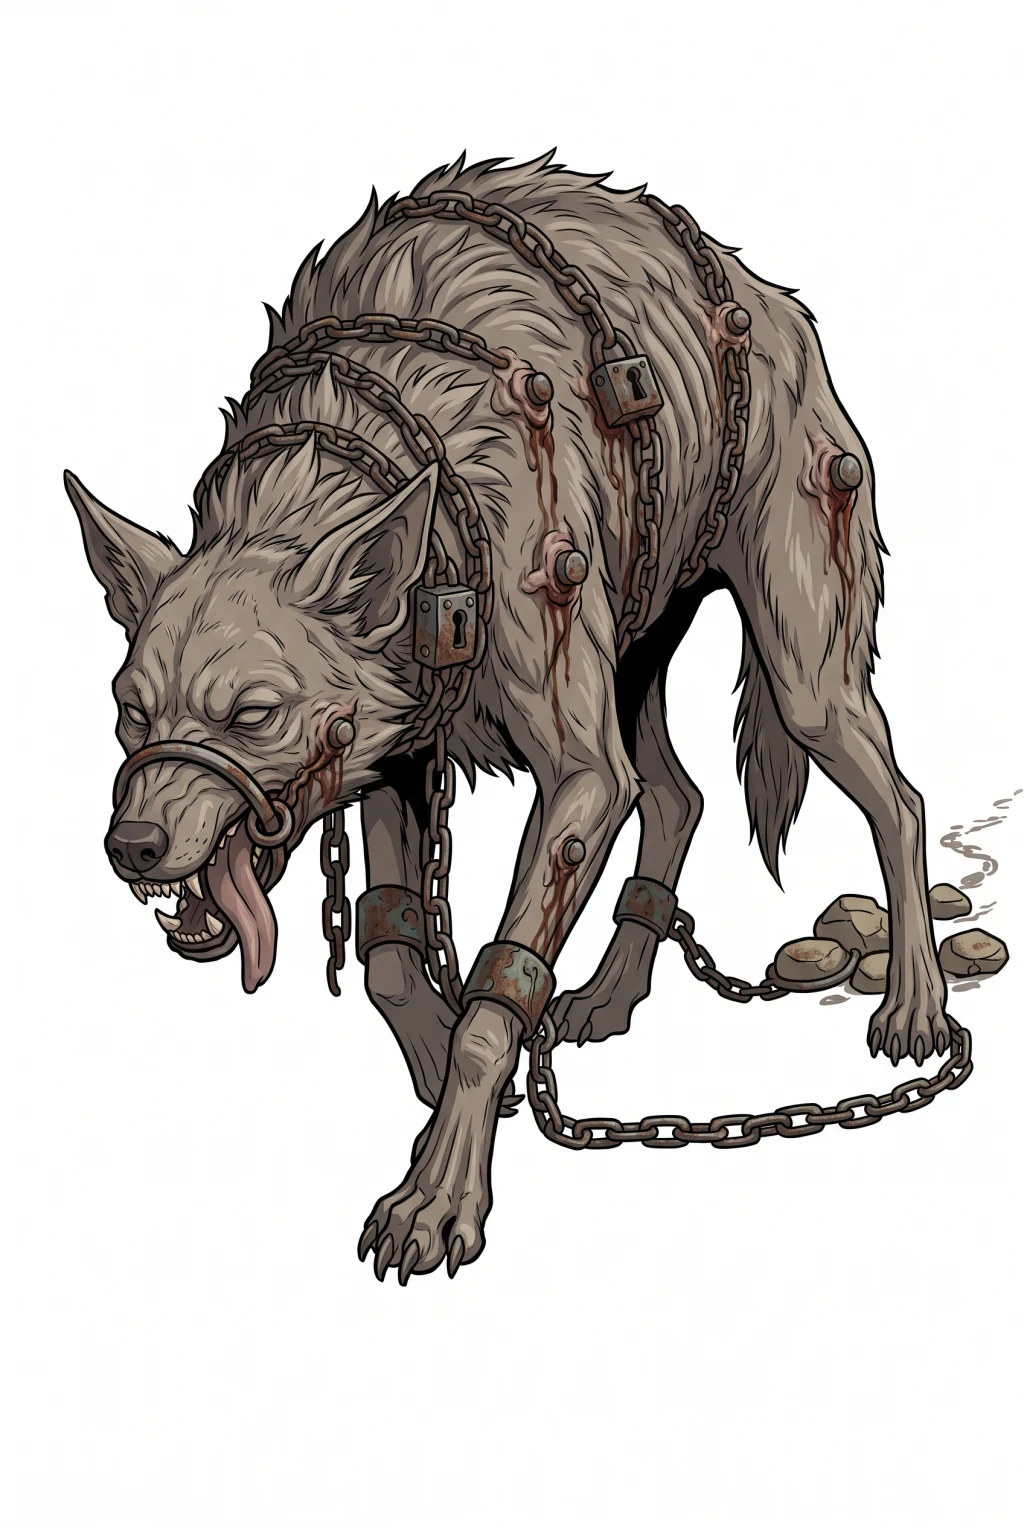
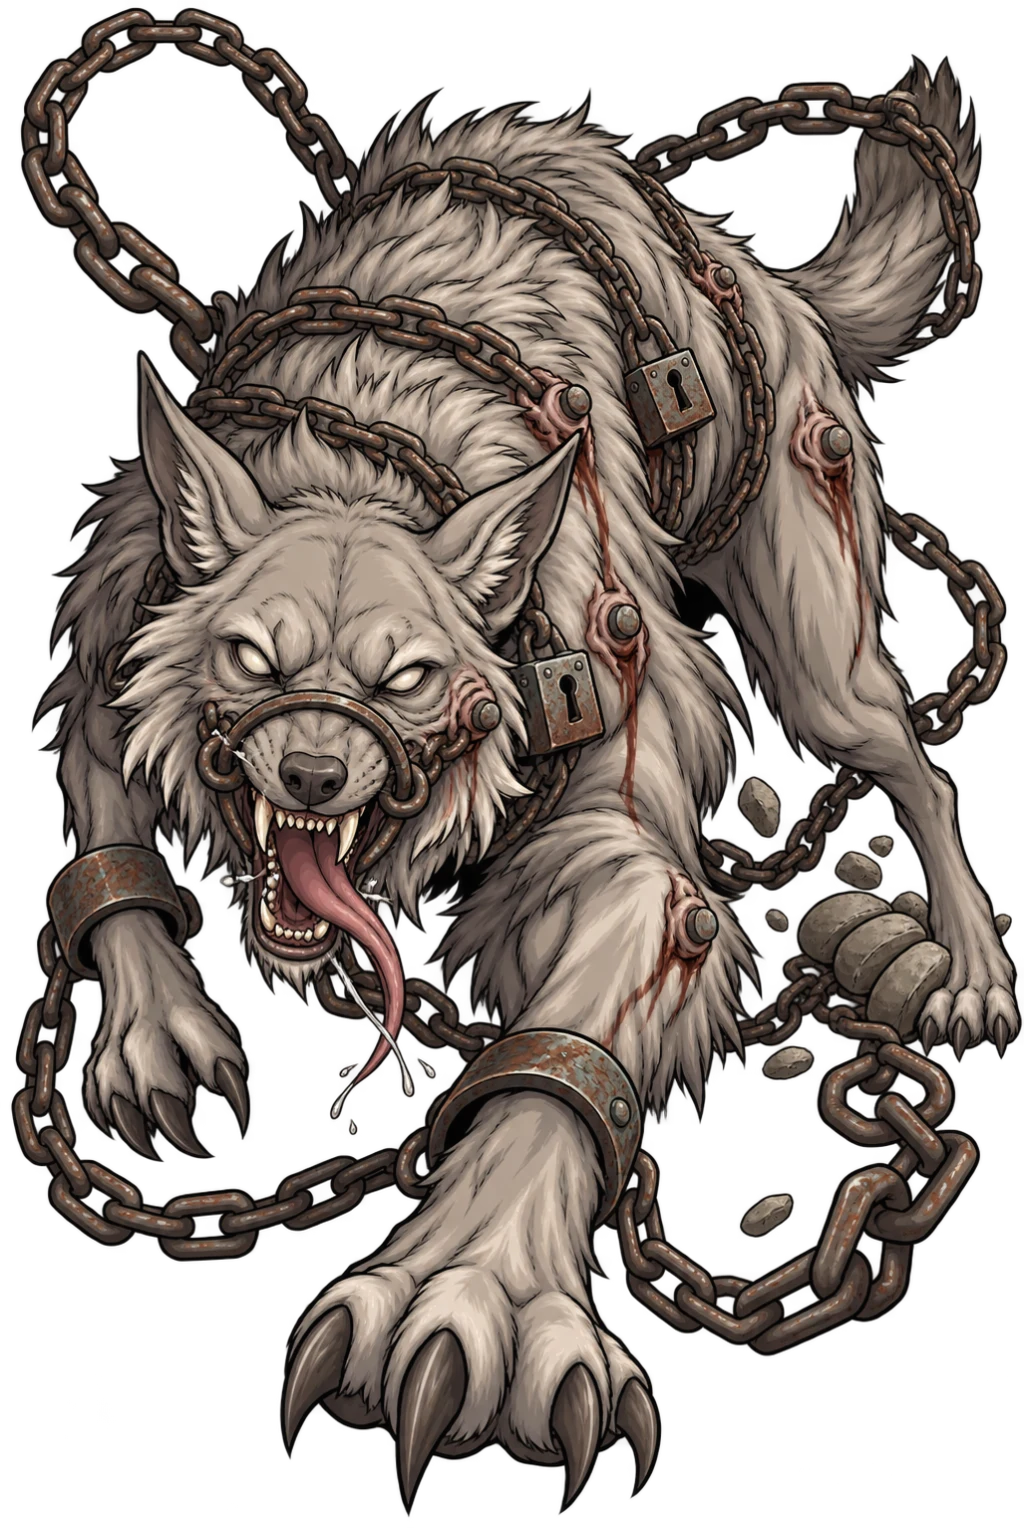
asset(enemy): 9 隻怪 GPT 加工——加氣勢＋alpha 去背，覆蓋白底原形 ver -805
- 群狼/腐鹿/鴉群/湖蟒/猞猁/管風琴獸/聖匣獸/懺悔獸：GPT 重繪
  （朝觀者攻擊氣勢＋全身入框＋真透明 alpha；腐鹿依 Ray 指定保留半截構圖）
- 空殼熊被暴力判定連擋（換串換措辭都擋，是圖本身觸發）→ 走本機 matte.py 去背
- config 四個 mon_* 引用加 ?v=2（同名覆蓋防快取，憲法 -650）
- 舊白底 webp 全部進回收區；GPT 原圖進 _originals/enemy/

diff --git a/config.js b/config.js
@@ -2097,12 +2097,12 @@ export const ASSETS = {
   /* 夏爾村村內戰（ver -802，Ray 交稿）—— 敵人卡見 script/enemies.js 的 sv_*。
      ⚠ bear／stag 目前仍是 **.png**（美術尚未去背轉 webp）：先指 .png 讓它載得出來，
        轉檔後把副檔名改成 .webp（同 §5 的轉檔三步）。其餘四張已是 webp。 */
-  enemy_sv_wolf_pack:     "resources/enemy/mon_wolf_pack.webp",
-  enemy_sv_beast_organ:   "resources/enemy/mon_beast_organ.webp",
+  enemy_sv_wolf_pack:     "resources/enemy/mon_wolf_pack.webp?v=2",
+  enemy_sv_beast_organ:   "resources/enemy/mon_beast_organ.webp?v=2",
   enemy_sv_stag:          "resources/enemy/mon_stag_nightmare.png",
-  enemy_sv_beast_shackle: "resources/enemy/mon_beast_shackle.webp",
+  enemy_sv_beast_shackle: "resources/enemy/mon_beast_shackle.webp?v=2",
   enemy_sv_bear:          "resources/enemy/mon_bear_nightmare.png",
-  enemy_sv_reliquary:     "resources/enemy/mon_beast_reliquary.webp",
+  enemy_sv_reliquary:     "resources/enemy/mon_beast_reliquary.webp?v=2",
 
   // ── 五張 cut-in 圖（v17.7 嵌入）──
   cutin_saint_luna: "resources/partner/Luna_CI_advent.jpg",   // 聖徒化降臨 cut-in（Luna）

diff --git a/resources/enemy/_beast_spec.md b/resources/enemy/_beast_spec.md
@@ -1,0 +1,124 @@
+# 野獸系敵人 — 美術規格（Ray 交辦，ver -734）
+
+> 「gemini 負責生怪，給他 gpt 的畫風細節參考，野獸系的敵人有普通野獸，也有魔獸型的，
+>   視情況可以有一些複數敵人，基本風格還是參考 DMC, 惡魔城, the last faith,
+>   blasphemous, elden ring, sekiro, dark souls 系列」
+
+## 分工
+
+- **產圖：Gemini**
+- **畫風基準圖：`resources/enemy/mon_beast_altar.webp`**（現成、已驗收）
+  —— 這就是憲法「GPT 先、Gemini 照著跑」的落地，而且底圖與題材同類（都是怪）。
+
+## 共用規格
+
+- 直式 **1024×1536**、**全身**、**純白背景**、**無地面陰影**、無文字無浮水印。
+- ⚠⚠ **「全身」是硬條件**（ver -734，Ray：「怪盡量要全身圖」）：頭到腳、四足獸是
+  頭到尾，**完整在框內**，四肢與尾巴不可以被畫框裁到，腳下留一點空間。
+  不要半身、不要特寫。**體型是戰鬥資訊** —— 玩家要一眼看出這隻多大、幾條腿、怎麼撲。
+  ⚠ 腐鹿第一版出成半截（Ray：「半截鹿效果好不好試試再說，先保留」）—— **保留不重畫**，
+    但後面每一隻都要帶這一條。
+- anime style / cel shading / clean lineart / **絕不要顆粒感**（§5 四鐵則，逐次寫進 prompt）。
+- **調性參考**：DMC／惡魔城／The Last Faith／Blasphemous／Elden Ring／Sekiro／Dark Souls
+  —— 哥德式宗教感 ＋ 骨與鐵的質地 ＋ 沉鬱厚重的剪影。
+  ⚠ 只取**題材與剪影**，上色仍走本專案的平塗硬邊；**不要**出現那些作品的具體角色與紋章。
+- 檔名 `mon_<名字>.webp`；原圖進 `resources/_originals/enemy/`。
+
+## ⚠⚠ 筆觸的細膩度（ver -734，Ray：「筆觸可以再細膩點」）
+
+第一版群狼方向對了但**線稿與明暗太簡**。跟「不要顆粒感」同一個道理：
+**「再細膩一點」寫進提示詞沒有用，要指名多畫什麼**。五項：
+
+1. **線稿分主副線** —— 外輪廓用粗線，**內部結構線用細線**（肌肉走向、骨的稜、
+   皮膚的皺褶、傷口邊緣），粗細差要看得出來。
+2. **陰影由 2 階增為 3~4 階**，但**仍然是硬邊平塗**（不要漸層、不要噴槍）。
+   多一階給反光面、多一階給最深的凹處。
+3. **毛皮做成「有層級的束」** —— 大束之內再切出小束，每一束都有乾淨的描邊；
+   ⚠ **不是**改成上千根獨立髮絲（那就是顆粒，§5 明令禁止）。
+4. **硬質部位要有明確的形狀與厚度** —— 牙、爪、外露的骨、角、鱗，
+   要畫出斷面與厚度，不要只是一個白色三角形。
+5. **材質要分得出來** —— 皮、毛、骨、鐵、布各自用不同的線密度與明暗階數，
+   一眼看得出摸起來不一樣。
+
+⚠⚠ **細膩 ≠ 顆粒**（同 §5「乾淨不等於平」的反面）：
+增加的是**有形狀、有邊界的資訊**，不是雜訊、噪點、細碎筆觸或散落亮點。
+判準：把圖縮到 1/4 大，該看得出結構層次；放大到 2 倍，每一筆都還是乾淨的線。
+
+## 兩類
+
+| | 定義 | 要點 |
+|---|---|---|
+| **健全猛獸** | **活的、健康的、單純很危險** | 肌肉飽滿、毛色／鱗色完整有光澤、眼睛是活的；靠**體型、武器（牙爪角）與姿態**嚇人，**不靠腐爛** |
+| **畸變野獸** | 現實動物受污染而變形 | 骨架仍然是獸；多眼、裂口、骨刺、脫毛露骨 |
+
+⚠⚠ **不要整批都是殭屍系**（ver -734，Ray：「不要全部殭屍係的喔，也要有一些正常猛獸」）
+—— 我第一版名單五隻**全部**是腐爛路線，那是我擬的偏差。
+**健全猛獸與畸變野獸大約各半**：前者是「這座森林本來就有的東西」，
+後者才是「被污染的東西」，兩者並存世界觀才立得住。
+⚠ 兩者共通的只有「**身上不要有任何人造物**」—— 那是魔獸型才有的。
+
+| 類 | 定義 | 要點 |
+|---|---|---|
+| **魔獸型** | 獸 ＋ 宗教器物／人造物融合 | 鐵環、鎖鏈、聖器、經幡、石造構件長進肉裡（同 `mon_beast_altar`） |
+
+**複數敵人**：可以一張圖放三兩隻同種（幼體群／群獵型）。
+⚠ 那時**整群算一個敵人**，構圖仍要是**單一剪影**，不要畫成排排站的圖鑑。
+
+## ⚠⚠ 名單是我擬的草案，等 Ray 的敵人卡
+
+Ray 只給了**分類與調性**，沒給名字與數值。以下十隻是提案，**不要當定案**；
+真正的數值一律走 `config.enemies` 的敵人資訊標準卡（`script/SCRIPT_FORMAT.md` §8.5）。
+
+### 普通野獸（畸變 3 ＋ 健全 3）
+
+| 檔名 | 提案 |
+|---|---|
+| `mon_wolf_pack` | **群狼**（複數）：三隻瘦長脫毛的狼疊成一個剪影，肋骨外露、眼白翻白 |
+| `mon_stag_rot` | **腐鹿**：巨大公鹿，鹿角碎裂並長出第二層骨質分岔，半邊臉的皮已脫落 |
+| `mon_bear_husk` | **空殼熊**：駝背巨熊，背脊裂開露出中空的胸腔 |
+| `mon_crow_swarm` | **鴉群**（複數）：一團擠在一起的巨鴉，翅膀交疊成一個大剪影 |
+| `mon_lake_serpent` | **湖蟒**（健全）：盤起的巨蟒，**鱗片飽滿有光澤**、肌肉鼓脹，抬頭盯人 |
+| `mon_tusk_boar` | **巨牙野豬**（健全）：厚實的野豬，**兩對向上彎的長獠牙**、鬃毛豎起、蹄下踏著翻起的土 |
+| `mon_moor_lynx` | **荒原猞猁**（健全）：長腿大貓，毛色完整、耳尖簇毛、壓低身體準備撲擊 |
+
+### 魔獸型（Ray：「魔獸挺不錯，多做幾個」，ver -734 擴充）
+
+⚠ **這一類是本專案最受青睞的方向**，優先產。共同公式：
+**獸的身體與宗教器物長在一起** —— 不是穿戴、不是綁上去，而是
+**器物取代了某個器官／長進肉裡／被肉包覆**，接合處要畫出皮肉翻捲、增生、鏽蝕蔓延。
+
+| 檔名 | 提案 |
+|---|---|
+
+| 檔名 | 提案 |
+|---|---|
+| `mon_beast_bell` | **鐘獸**：頸上套著大鐵鐘，鐘體與頸肉長在一起，四肢纏著鎖鏈 |
+| `mon_beast_reliquary` | **聖匣獸**：胸腔嵌著一具打開的聖髑匣，匣內是空的 |
+| `mon_beast_censer` | **香爐獸**：下頜被替換成一只鏽蝕香爐，垂著燒盡的鏈 |
+| `mon_beast_banner` | **經幡獸**：背上插滿旗杆，殘破經幡自骨刺垂下 |
+| `mon_beast_lantern` | **提燈獸**：長頸前端垂著一盞骨質提燈（安康魚式），燈裡是冷光 |
+| `mon_beast_reliquary` | **聖匣獸**：胸腔敞開嵌著空的青銅聖髑匣，肋骨被鐵箍扳開固定 |
+| `mon_beast_organ` | **管風琴獸**：背上長出一排長短不一的青銅管，呼吸時發出走音的和弦 |
+| `mon_beast_shackle` | **懺悔獸**：全身纏滿鎖鏈，鎖頭直接穿過皮肉，鏈的另一端拖著碎石 |
+| `mon_beast_sarcophagus` | **石棺獸**：背上馱著一具石棺蓋、與脊椎長在一起，壓得牠幾乎貼地 |
+| `mon_beast_codex` | **聖書獸**：肋骨之間夾著一本本鎖鏈綁住的厚書，書頁隨動作翻飛 |
+| `mon_beast_bellfry` | **鐘樓獸**：背上是一座小型石造鐘樓的殘骸，走動時鐘還會響 |
+
+## 進度（ver -734）
+
+**已入庫 7 隻**（Gemini 原形）：
+`mon_wolf_pack`（群狼・畸變）／`mon_stag_rot`（腐鹿・畸變・半截構圖，Ray 指定保留）／
+`mon_bear_husk`（空殼熊・畸變）／`mon_crow_swarm`（鴉群・畸變）／
+`mon_lake_serpent`（湖蟒・健全）／`mon_moor_lynx`（荒原猞猁・健全 —— 已目視確認：耳尖簇毛、頰鬃、短尾）／
+`mon_beast_reliquary`（聖匣獸・魔獸 —— 已確認入庫，公式完全對）
+
+**畫好但下載被擋、還在 Gemini 對話裡**（`gemini.google.com/app/683451137832f8a6`）：
+鐘獸 `mon_beast_bell`、香爐獸 `mon_beast_censer`、經幡獸 `mon_beast_banner`、**巨牙野豬 `mon_tusk_boar`**
+
+**下一步（兩條線並行）**
+1. **Gemini**：繼續產魔獸型（Ray：「魔獸挺不錯，多做幾個」）——
+   管風琴獸／懺悔獸／石棺獸／聖書獸／鐘樓獸／提燈獸
+2. **GPT**：把已入庫的原形一隻隻加工（**加氣勢＋去背**，見 CLAUDE.md §5 的怪那一節）
+   已開的加工串：`chatgpt.com/c/6a996546-…`（群狼那隻送過了）
+
+⚠ 下載被擋就放掉繼續生（CLAUDE.md 那條），圖留在對話裡跑不掉。
